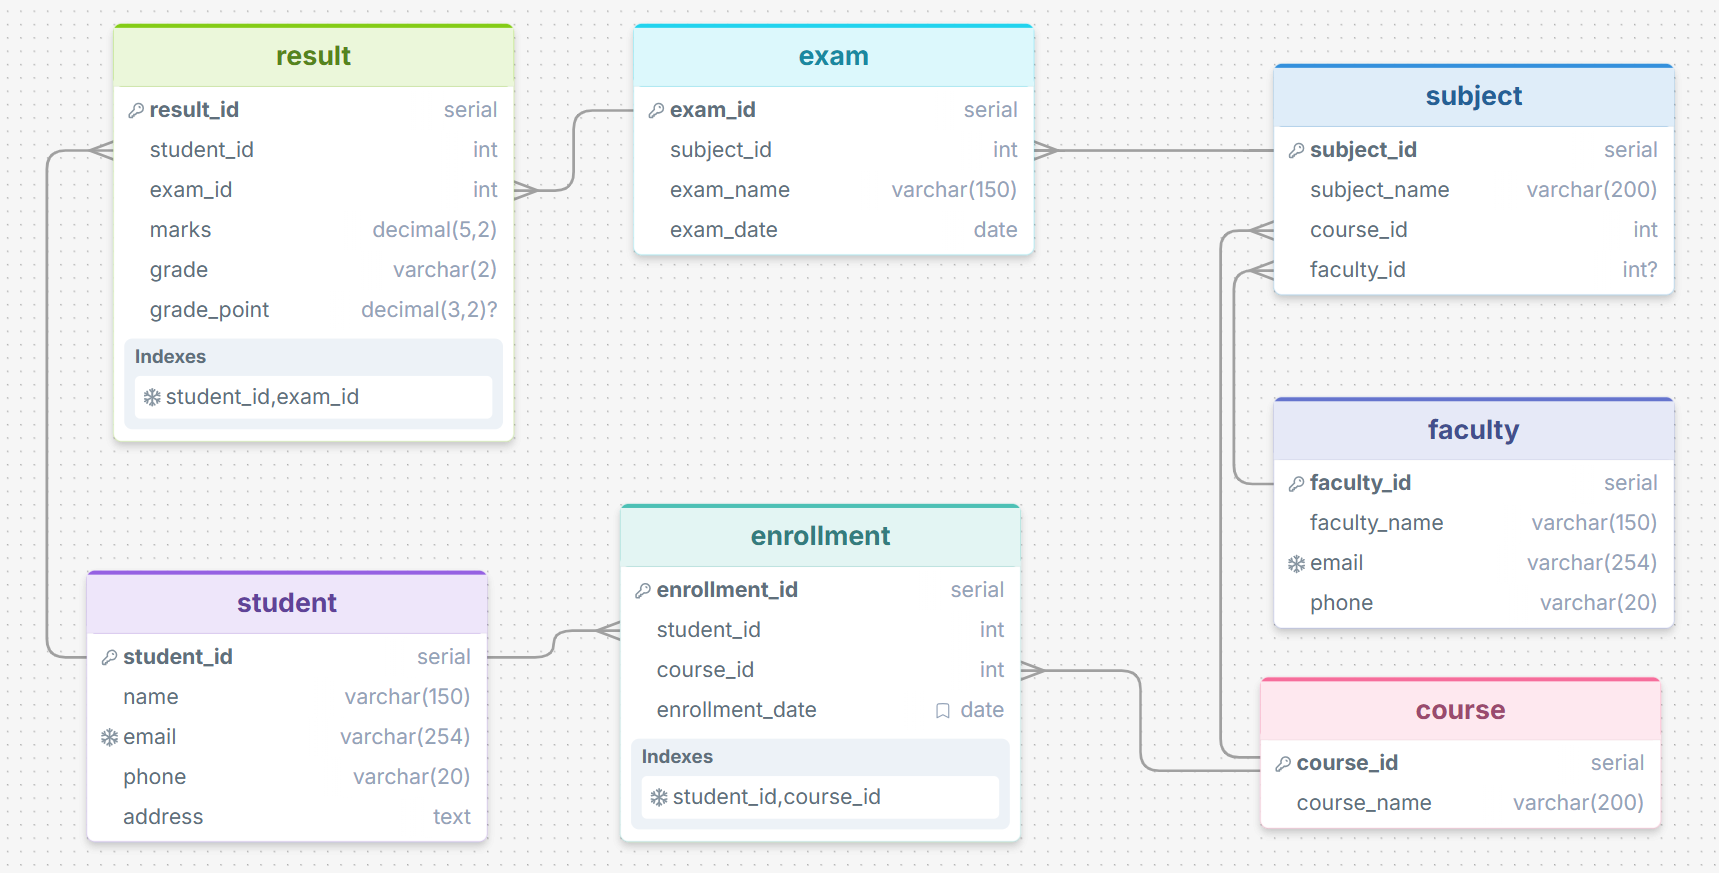
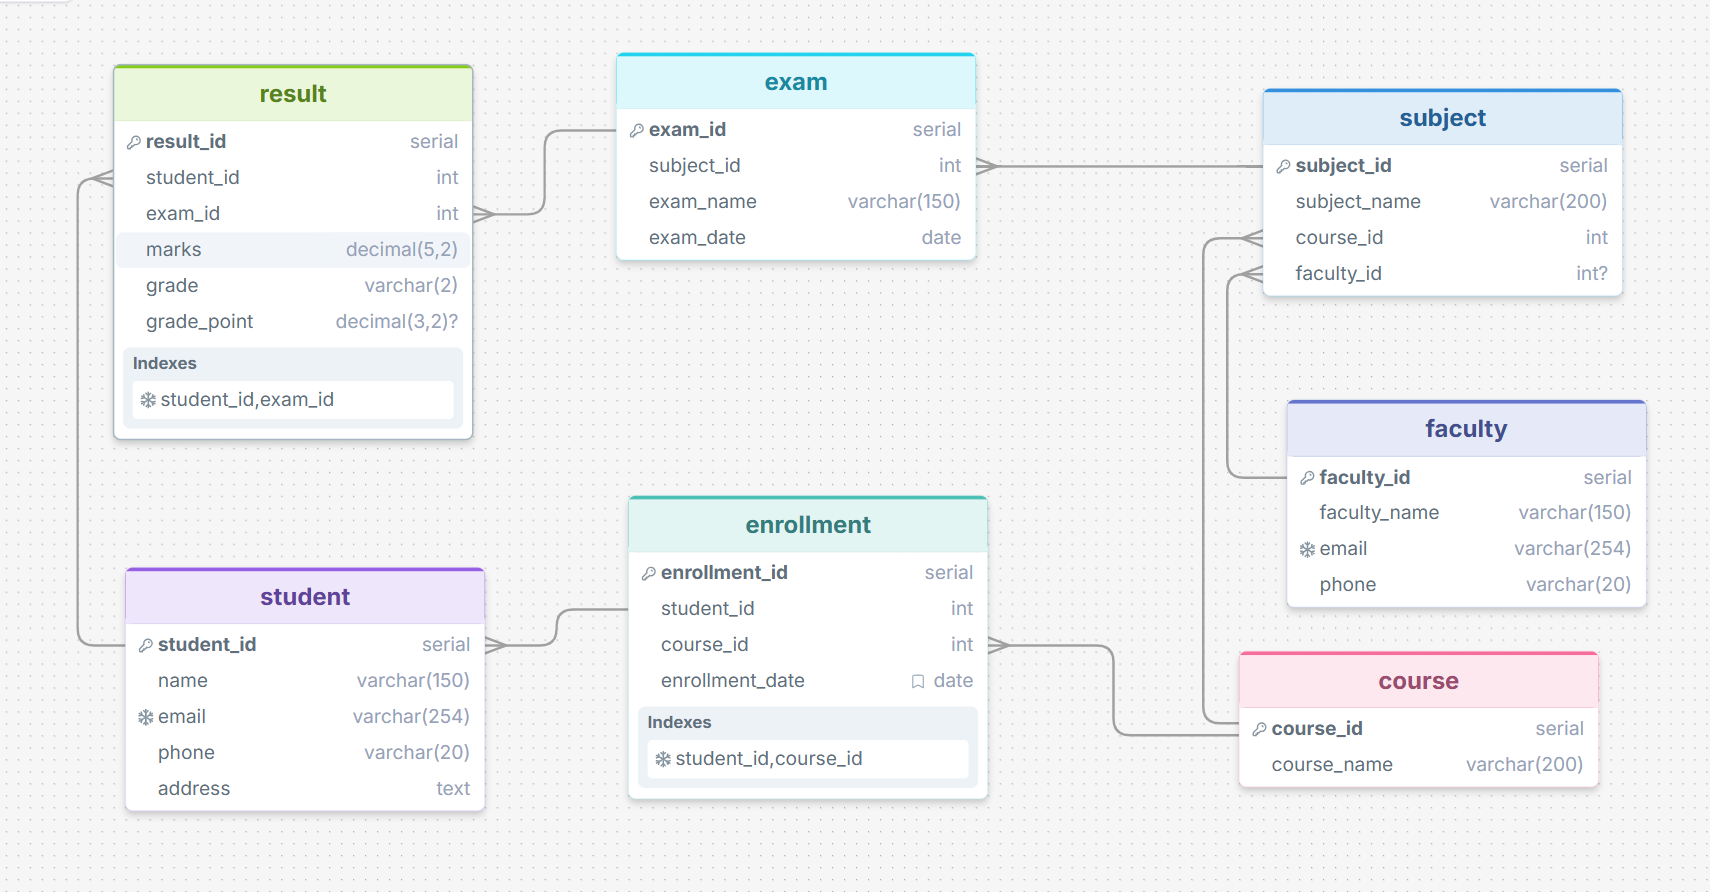
studen m:1 enrollment

diff --git a/sis_app/models.py b/sis_app/models.py
@@ -38,13 +38,16 @@ class Subject(models.Model):
 
 class Enrollment(models.Model):
     enrollment_id = models.AutoField(primary_key=True)
-    student = models.ForeignKey(Student, on_delete=models.CASCADE)
+    
+    student = models.OneToOneField(Student, on_delete=models.CASCADE)
+    
+    # 2. ForeignKey remains here.
     course = models.ForeignKey(Course, on_delete=models.CASCADE)
+    
     enrollment_date = models.DateField(auto_now_add=True)
 
-    class Meta:
-        # Constraint: One student cannot enroll in the same course twice
-        unique_together = ('student', 'course')
+    # Note: We completely removed the "class Meta: unique_together" block 
+    # because OneToOneField automatically makes the student unique!
 
     def __str__(self):
         return f"{self.student.name} - {self.course.course_name}"